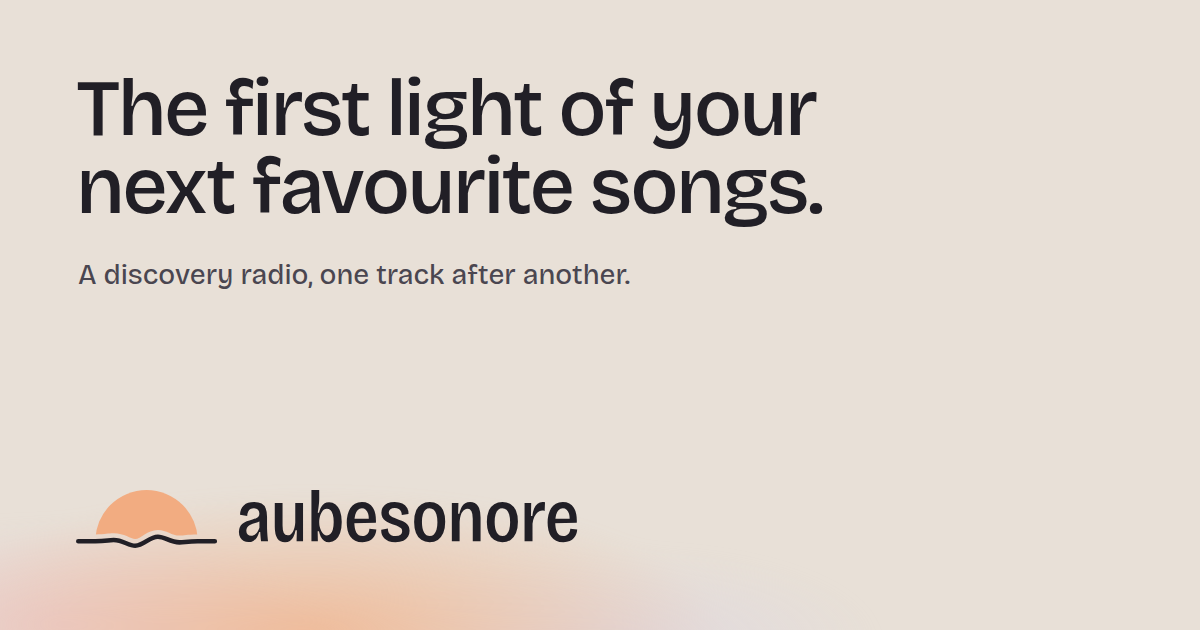
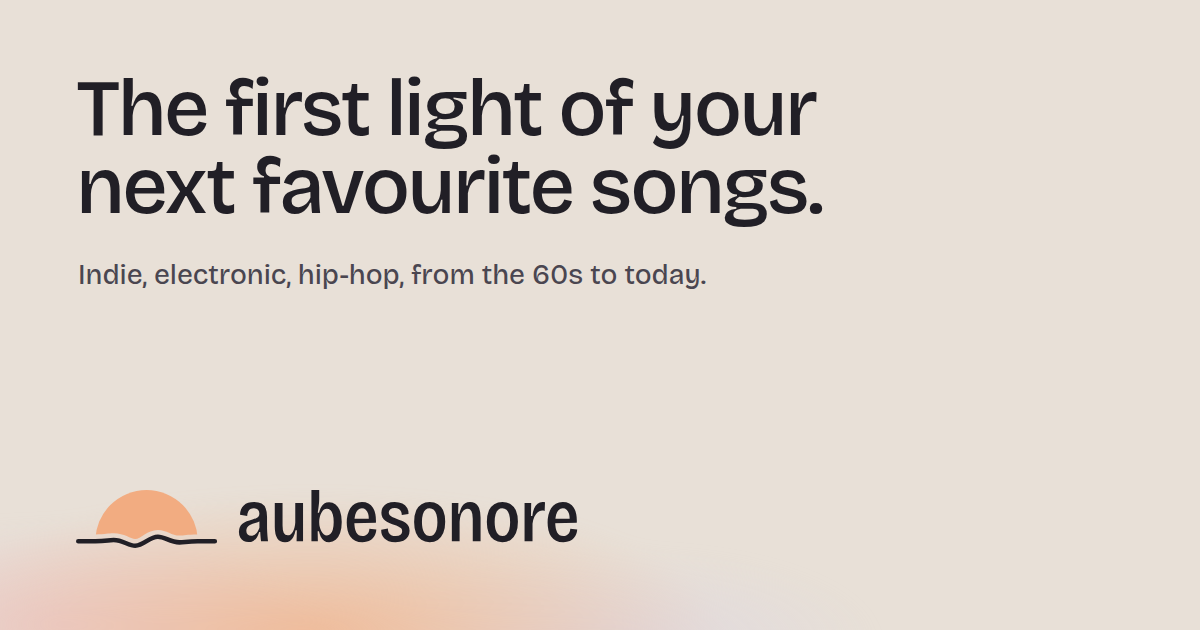
feat(site): the site says what it plays, one description everywhere (#505)
* feat(site): the site says what it plays, one description everywhere

The site described itself five ways ("une radio de découverte, un titre
après l'autre", "radio de découverte musicale"…) and none said which
music. 30 days of plays (517 artists): indie rock and pop, electronic,
hip-hop, from the 1960s to today. That is now the description, in the
home's title and description, the tagline, the manifest and the sharing
cards.

- Home title names the site and its music; the legal page gets its own
  description instead of its title repeated; the sign-in tab names the
  form shown (sign up, forgotten password).
- JSON-LD: WebSite only, with alternate names, which Google reads for
  the site name (developers.google.com/search/docs/appearance/
  site-names); RadioStation is a LocalBusiness, a physical place.
- twitter:site and twitter:creator named an account nothing links to.
- "Artistes proches" becomes "Artistes similaires", the vision's word.
- English: "The live" and "the antenna" were calques of the French.
- brand/og.html was a stale copy of build.py's sharing card.

Claude-Session: https://claude.ai/code/session_01FjQmZnK4wsDC35kFUWUqCH

* fix(site): the tagline never cuts "hip-hop" at its hyphen

On the preview the hero's line broke into « hip- / hop » at 1280 and
390 px (its column is set in ch), and the font has no non-breaking
hyphen. The tagline takes the sharing card's shorter words, which put
"hip-hop" mid-line.
[…]

Changed region(s): [[0.0617, 0.4222, 0.5858, 0.4524]]

diff --git a/site/apps/frontend/index.html b/site/apps/frontend/index.html
@@ -15,64 +15,39 @@
     />
 
     <!-- SEO -->
-    <title>AubeSonore</title>
+    <title>AubeSonore · Radio de découverte indé, électro, hip-hop</title>
     <meta
       name="description"
-      content="Une radio de découverte, un titre après l'autre, gratuite et sans publicité. Gardez ceux qui vous arrêtent, retrouvez-les sur votre plateforme."
+      content="Webradio gratuite et sans publicité : rock et pop indé, électronique, hip-hop, des années 60 à aujourd'hui. Des titres à découvrir, et la page de chaque artiste."
     />
     <meta name="author" content="AubeSonore" />
     <meta name="theme-color" content="#e8e0d7" />
     <meta name="color-scheme" content="light" />
     <link rel="canonical" href="https://aubesonore.fr/" />
 
-    <!-- Structured data (schema.org): the station is the organisation, its live stream the
-         broadcast service it runs, the site the website it publishes. Each property sits on a
-         type that defines it (schema.org/RadioStation, /BroadcastService, /WebSite). The
-         pre-render puts the English description and language on /en/ (scripts/head.mjs). -->
+    <!-- Structured data (schema.org): the website, its name and its other spellings, which Google
+         reads to name the site in its results (developers.google.com/search/docs/appearance/
+         site-names). The pre-render puts the English description and language on /en/
+         (scripts/head.mjs). -->
     <script type="application/ld+json">
       {
         "@context": "https://schema.org",
-        "@graph": [
-          {
-            "@id": "https://aubesonore.fr/#org",
-            "@type": "RadioStation",
-            "name": "AubeSonore",
-            "alternateName": "AubeSonore Webradio",
-            "url": "https://aubesonore.fr/",
-            "description": "Une radio de découverte, un titre après l'autre, gratuite et sans publicité. Gardez ceux qui vous arrêtent, retrouvez-les sur votre plateforme.",
-            "logo": "https://aubesonore.fr/icon-512.png",
-            "image": "https://aubesonore.fr/og-fr.png"
-          },
-          {
-            "@id": "https://aubesonore.fr/#broadcast",
-            "@type": "BroadcastService",
-            "name": "AubeSonore",
-            "broadcastDisplayName": "AubeSonore",
-            "broadcastTimezone": "Europe/Paris",
-            "broadcaster": { "@id": "https://aubesonore.fr/#org" },
-            "potentialAction": {
-              "@type": "ListenAction",
-              "target": "https://radio.aubesonore.fr/listen/aubesonore/radio.mp3"
-            }
-          },
-          {
-            "@id": "https://aubesonore.fr/#site",
-            "@type": "WebSite",
-            "url": "https://aubesonore.fr/",
-            "name": "AubeSonore",
-            "inLanguage": "fr-FR",
-            "publisher": { "@id": "https://aubesonore.fr/#org" }
-          }
-        ]
+        "@type": "WebSite",
+        "@id": "https://aubesonore.fr/#site",
+        "url": "https://aubesonore.fr/",
+        "name": "AubeSonore",
+        "alternateName": ["Aube Sonore", "aubesonore.fr"],
+        "description": "Webradio gratuite et sans publicité : rock et pop indé, électronique, hip-hop, des années 60 à aujourd'hui. Des titres à découvrir, et la page de chaque artiste.",
+        "inLanguage": "fr-FR"
       }
     </script>
 
     <!-- Open Graph -->
     <meta property="og:type" content="website" />
-    <meta property="og:title" content="AubeSonore" />
+    <meta property="og:title" content="AubeSonore · Radio de découverte indé, électro, hip-hop" />
     <meta
       property="og:description"
-      content="Une radio de découverte, un titre après l'autre, gratuite et sans publicité. Gardez ceux qui vous arrêtent, retrouvez-les sur votre plateforme."
+      content="Webradio gratuite et sans publicité : rock et pop indé, électronique, hip-hop, des années 60 à aujourd'hui. Des titres à découvrir, et la page de chaque artiste."
     />
     <meta property="og:image" content="https://aubesonore.fr/og-fr.png" />
     <meta property="og:image:width" content="1200" />
@@ -84,12 +59,10 @@
 
     <!-- Twitter Card -->
     <meta name="twitter:card" content="summary_large_image" />
-    <meta name="twitter:site" content="@aubesonore" />
-    <meta name="twitter:creator" content="@aubesonore" />
-    <meta name="twitter:title" content="AubeSonore" />
+    <meta name="twitter:title" content="AubeSonore · Radio de découverte indé, électro, hip-hop" />
     <meta
       name="twitter:description"
-      content="Une radio de découverte, un titre après l'autre, gratuite et sans publicité. Gardez ceux qui vous arrêtent, retrouvez-les sur votre plateforme."
+      content="Webradio gratuite et sans publicité : rock et pop indé, électronique, hip-hop, des années 60 à aujourd'hui. Des titres à découvrir, et la page de chaque artiste."
     />
     <meta name="twitter:image" content="https://aubesonore.fr/og-fr.png" />
 

diff --git a/site/apps/frontend/src/pages/AuthPage.tsx b/site/apps/frontend/src/pages/AuthPage.tsx
@@ -29,6 +29,15 @@ function validatePasswordMatch(password: string, confirm: string): string | unde
   return confirm === password ? undefined : m.auth_error_password_mismatch();
 }
 
+const TITLES: Record<AuthMode, () => string> = {
+  signin: m.auth_signin_title,
+  signup: m.auth_signup_title,
+  forgot: m.auth_forgot_title,
+  'reset-sent': m.auth_forgot_title,
+  'reset-password': m.auth_new_password,
+  'verification-sent': m.auth_verification_title,
+};
+
 /**
  * Sign in, sign up, a forgotten password and a new one, on a page of the site (/connexion,
  * /en/sign-in, and Better Auth's /reset-password?token= link). Opened with a SignInState: its first
@@ -52,9 +61,12 @@ export default function AuthPage() {
   useEffect(() => setListenVisible(false), [setListenVisible]);
 
   useEffect(() => {
-    document.title = `${m.auth_signin_title()} · AubeSonore`;
     if (resetLinkInvalid) toastError(m.toast_reset_link_invalid());
   }, [resetLinkInvalid]);
+
+  useEffect(() => {
+    document.title = `${TITLES[mode]()} · AubeSonore`;
+  }, [mode]);
 
   // Already signed in (back from Google, or the page reopened): nothing to do here.
   const isAuthenticated = useAuthStore((s) => s.isAuthenticated);

diff --git a/site/apps/frontend/src/artist/ArtistPageView.test.tsx b/site/apps/frontend/src/artist/ArtistPageView.test.tsx
@@ -108,7 +108,7 @@ describe('ArtistPageView', () => {
       { wrapper: MemoryRouter }
     );
 
-    expect(screen.getByRole('heading', { name: 'Artistes proches' })).toBeInTheDocument();
+    expect(screen.getByRole('heading', { name: 'Artistes similaires' })).toBeInTheDocument();
     expect(screen.queryByRole('heading', { name: 'Influences' })).not.toBeInTheDocument();
     expect(screen.queryByRole('link', { name: 'Explorer dans Musilogy' })).not.toBeInTheDocument();
   });
@@ -145,14 +145,14 @@ describe('ArtistPageView', () => {
       'Écouter ailleurs',
       'Vos titres gardés',
       'Albums et EP',
-      'Artistes proches',
+      'Artistes similaires',
     ]);
     expect(
       screen
         .getAllByRole('link')
         .filter((link) => link.getAttribute('href')?.startsWith('#'))
         .map((link) => link.textContent)
-    ).toEqual(['Vos titres gardés', 'Albums et EP', 'Artistes proches']);
+    ).toEqual(['Vos titres gardés', 'Albums et EP', 'Artistes similaires']);
     expect(screen.getByRole('list', { name: 'Écouter ailleurs' })).toContainElement(
       screen.getByRole('link', { name: 'Bandcamp' })
     );

diff --git a/site/apps/frontend/src/musilogy/MusilogyView.test.tsx b/site/apps/frontend/src/musilogy/MusilogyView.test.tsx
@@ -82,7 +82,7 @@ describe('MusilogySections', () => {
   it('lists the close artists by rank, each a link to its page, the sound they share said once', () => {
     show(artist());
 
-    expect(screen.getByRole('heading', { name: 'Artistes proches' })).toBeInTheDocument();
+    expect(screen.getByRole('heading', { name: 'Artistes similaires' })).toBeInTheDocument();
     expect(screen.getByRole('link', { name: 'The Kinks' })).toHaveAttribute(
       'href',
       `/artiste/${neighbour(3).mbid}`
@@ -132,7 +132,7 @@ describe('MusilogySections', () => {
   it('leaves out every section with nothing in it, without a title over an absence', () => {
     show(artist({ neighbours: null }));
 
-    expect(screen.queryByRole('heading', { name: 'Artistes proches' })).not.toBeInTheDocument();
+    expect(screen.queryByRole('heading', { name: 'Artistes similaires' })).not.toBeInTheDocument();
     expect(screen.queryByRole('heading', { name: 'Influences' })).not.toBeInTheDocument();
     expect(screen.getByRole('heading', { name: 'Groupes et projets' })).toBeInTheDocument();
   });

diff --git a/site/apps/frontend/src/entry-server.test.tsx b/site/apps/frontend/src/entry-server.test.tsx
@@ -99,7 +99,9 @@ describe('entry-server', () => {
   });
 
   it('gives each language its own title and description', () => {
-    expect(meta('fr').title).toBe('AubeSonore');
-    expect(meta('en').description).toMatch(/^A discovery radio/);
+    expect(meta('fr').title).toBe('AubeSonore · Radio de découverte indé, électro, hip-hop');
+    expect(meta('en').title).toBe('AubeSonore · Discovery radio: indie, electronic, hip-hop');
+    expect(meta('en').description).toMatch(/^Free, ad-free web radio/);
+    expect(meta('fr', 'legal').description).not.toBe(meta('fr', 'legal').title);
   });
 });

diff --git a/site/apps/frontend/vite.config.ts b/site/apps/frontend/vite.config.ts
@@ -59,8 +59,10 @@ export default defineConfig(({ mode }) => {
         manifest: {
           name: 'AubeSonore',
           short_name: 'AubeSonore',
-          description: "Des titres à l'aube de vous plaire.",
+          description:
+            "Webradio de découverte : rock et pop indé, électronique, hip-hop, des années 60 à aujourd'hui. Gratuite, sans publicité.",
           lang: 'fr',
+          categories: ['music'],
           theme_color: '#e8e0d7',
           background_color: '#e8e0d7',
           display: 'standalone',

diff --git a/site/apps/frontend/src/entry-server.tsx b/site/apps/frontend/src/entry-server.tsx
@@ -108,8 +108,10 @@ export function meta(
     };
   }
   if (page === 'legal') {
-    const title = m.legal_title({}, { locale });
-    return { title: `${title} · AubeSonore`, description: title };
+    return {
+      title: `${m.legal_title({}, { locale })} · AubeSonore`,
+      description: m.legal_meta_description({}, { locale }),
+    };
   }
   return {
     title: m.meta_title({}, { locale }),

diff --git a/site/apps/frontend/brand/build.py b/site/apps/frontend/brand/build.py
@@ -385,8 +385,8 @@ def main() -> None:
     faces = font_face("Bricolage", FONT, "font-weight:200 800;font-stretch:75% 100%")
     lockup_px = 58
     for lang, title, sub in (
-        ("fr", "Des titres à l’aube de vous plaire.", "Une radio de découverte, un titre après l’autre."),
-        ("en", "The first light of your next favourite songs.", "A discovery radio, one track after another."),
+        ("fr", "Des titres à l’aube de vous plaire.", "Indé, électro, hip-hop, des années 60 à aujourd’hui."),
+        ("en", "The first light of your next favourite songs.", "Indie, electronic, hip-hop, from the 60s to today."),
     ):
         logo = svg_doc(lockup_box, lockup_body("o", DAWN, INK, INK), lockup_px * lockup_box[2] / lockup_box[3], lockup_px)
         html = f"""<style>{faces}
